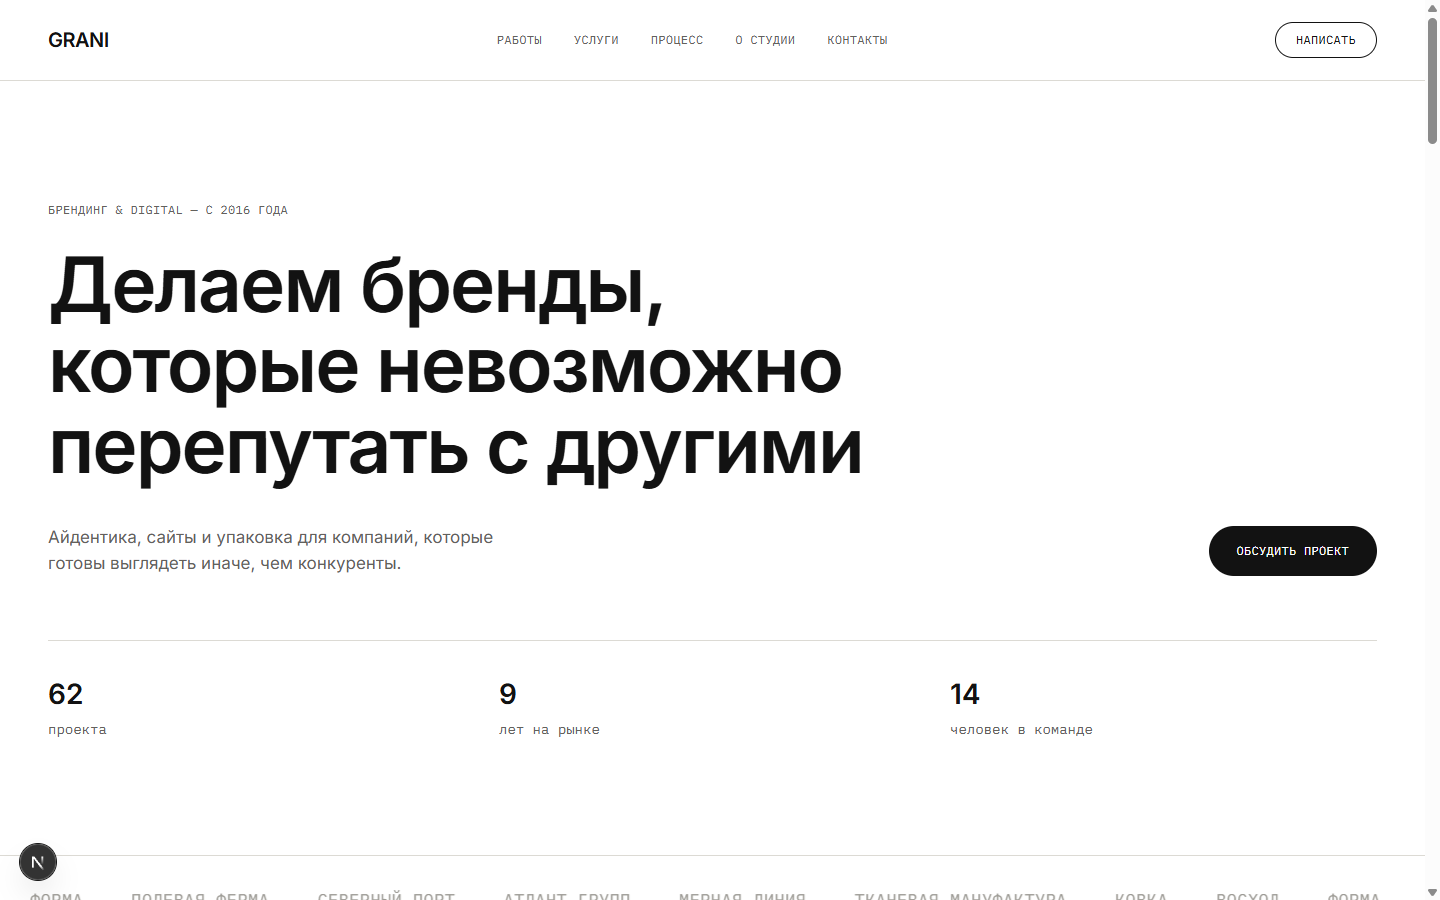
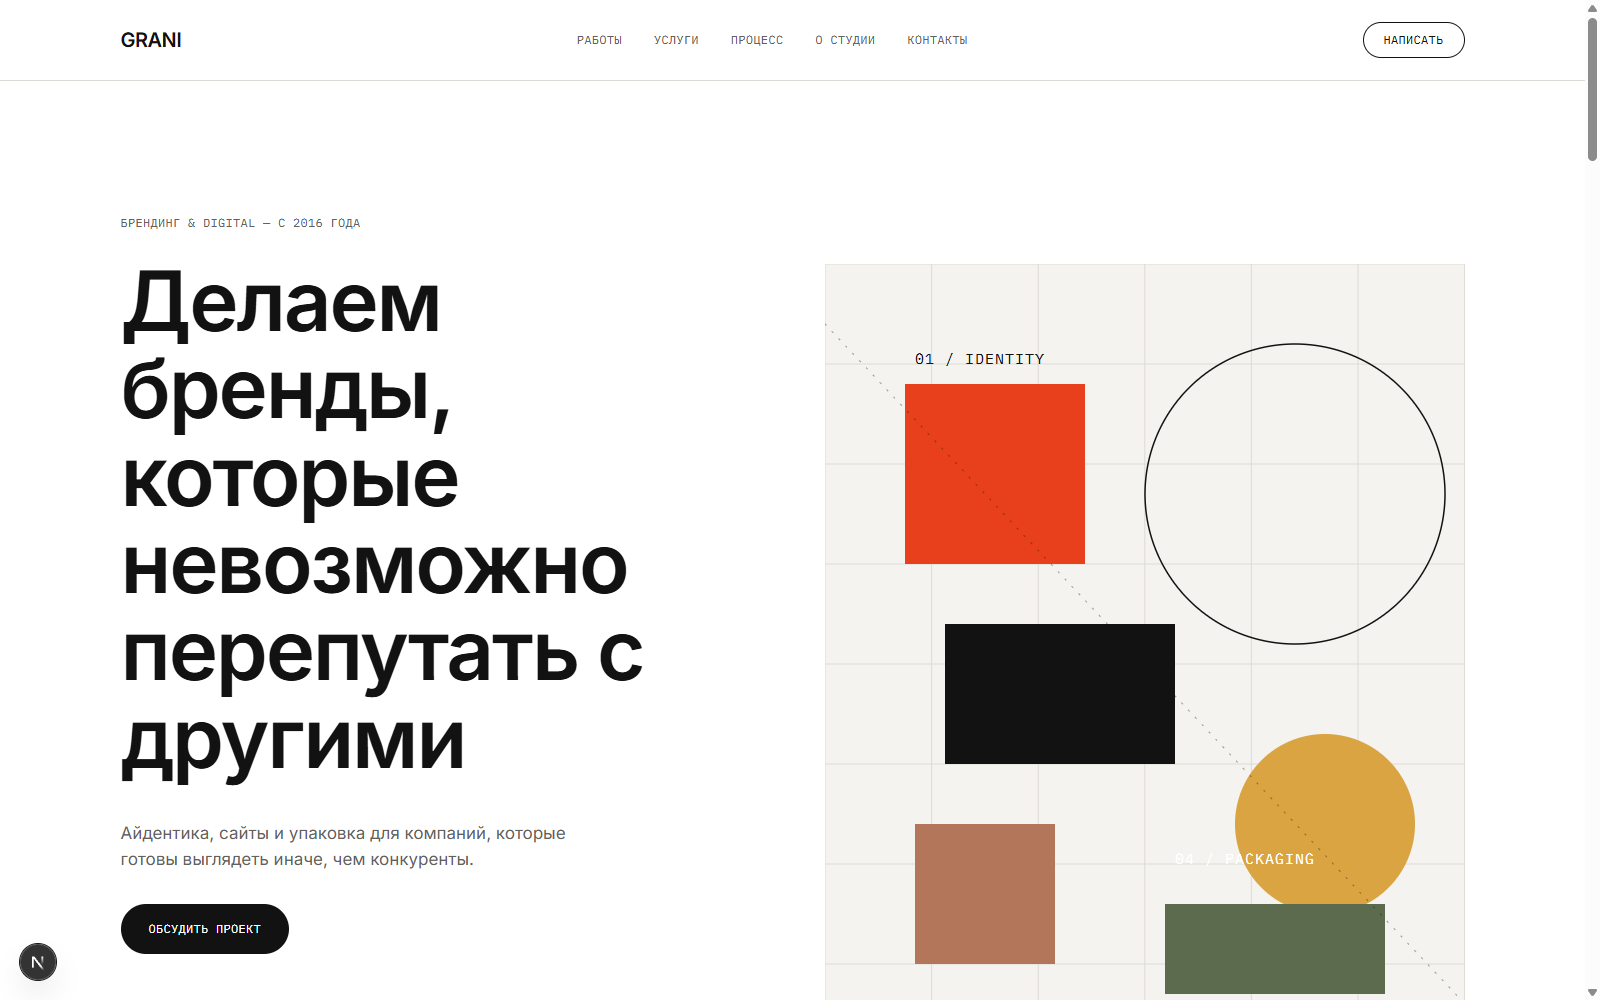
Update case screenshots and trim overlong case descriptions
Claude-Session: https://claude.ai/code/session_012ud42z2FJz5bos5BT3Kq7B

diff --git a/src/content.ts b/src/content.ts
@@ -250,23 +250,6 @@ export type CaseItem = {
 // Чтобы добавить новый кейс — просто добавь объект в этот массив.
 export const cases: CaseItem[] = [
   {
-    tags: ["#лидогенерация", "#редизайн"],
-    title:
-      "Более 80 лидов за первый месяц работы с нового сайта по комплексной эксплуатации газифицированных объектов",
-    text: "Проанализировали конкурентов в нише и выстроили структуру сайта вокруг главной боли клиента — быстрого вызова техника. Понятные тарифы, чёткие УТП и заметная кнопка заявки в каждом блоке подняли конверсию так, что уже в первый месяц сайт принёс больше 80 лидов.",
-    link: "teploserviskazan.ru",
-    linkHref: "https://teploserviskazan.ru",
-    image: "/img/case-1.svg",
-  },
-  {
-    tags: ["#лидогенерация"],
-    title: "Разработали web-сайт, дающий более 50 заявок в месяц",
-    text: "Старый сайт не выдерживал трафик с контекстной рекламы — люди уходили, не оставив заявку. Пересобрали структуру под рекламные посадки: сократили путь до формы, ускорили загрузку и убрали всё, что отвлекает от заявки. Итог — стабильный поток из 50+ заявок в месяц.",
-    link: "",
-    linkHref: "",
-    image: "/img/case-2.svg",
-  },
-  {
     tags: ["#лидогенерация", "#каталог"],
     title: "Лендинг завода бытовок и блок-контейнеров с квизом-калькулятором",
     text: "Не просто сайт-визитка, а инструмент продаж завода. Квиз-калькулятор сам подбирает топ-3 модели под бюджет и задачу клиента, прогревает его ещё до звонка менеджеру и передаёт уже квалифицированный лид с понятными параметрами — это сокращает цикл сделки и разгружает отдел продаж. В хиро-секции — собственный 3D-конфигуратор бытовки на чистом SVG: клиент видит, как собирается его будущий объект, и это работает на доверие к заводу ещё до первого контакта. Все заявки падают в Supabase, а менеджер в один клик выгружает их в Excel с автофильтром и фирменными цветами.",
@@ -284,16 +267,16 @@ export const cases: CaseItem[] = [
   },
   {
     tags: ["#редизайн", "#travel"],
-    title: "Редизайн турброкера экспедиций: от типового лендинга — к дерзкому editorial-стилю, который продаёт авантюру",
-    text: "Старая версия сайта выглядела как ещё один тревел-лендинг — фото гор и форма заявки, ничем не выделяющие бренд среди конкурентов. Пересобрали визуальный язык под аудиторию, которая ищет экстрим, а не путёвку: гигантский конденсированный заголовок, разбитый на два смысловых блока, full-bleed фотографии без рамок и отступов, тёмные editorial-блоки для ключевых сообщений (гарантии, процесс брони) и блок доверия с цифрами (48 экспедиций в год, 2200+ участников, 11 лет в горах) сразу под первым экраном — вместо того чтобы прятать соцдоказательство в футер. Итог — сайт, который с первого экрана считывается как бренд для тех, кто ходит в горы не первый раз, а не безликая турагентская визитка.",
+    title: "Редизайн турброкера экспедиций: от лендинга к editorial-стилю",
+    text: "Старая версия сайта выглядела как ещё один тревел-лендинг — фото гор и форма заявки, ничем не выделяющие бренд среди конкурентов. Пересобрали визуальный язык под аудиторию, которая ищет экстрим, а не путёвку: гигантский конденсированный заголовок, разбитый на два смысловых блока, full-bleed фотографии без рамок и тёмные editorial-блоки для ключевых сообщений — гарантии, процесс брони. Блок доверия с цифрами (48 экспедиций в год, 2200+ участников, 11 лет в горах) вынесли сразу под первый экран, а не спрятали в футер. Итог — сайт, который с первого экрана читается как бренд для тех, кто ходит в горы не первый раз.",
     link: "",
     linkHref: "",
     image: "/img/case-northbound.png",
   },
   {
     tags: ["#лендинг", "#брендинг"],
-    title: "Сайт-портфолио брендинговой студии, который сам квалифицирует лида ещё до звонка",
-    text: "Задача была не «сделать красиво», а закрыть главный вопрос заказчика брендинга — «а вы вообще умеете» — за первые 10 секунд на сайте. Структура выстроена как воронка: обещание в заголовке → цифры доверия (62 проекта, 9 лет на рынке, 14 человек в команде) → разбивка услуг по формату задач клиента (айдентика, digital, арт-дирекшн, упаковка) → портфолио из знаковых кейсов с ссылкой на боль/результат → прозрачный процесс из 4 шагов, снимающий страх «пропадут с деньгами» → отзывы с конкретикой (рост конверсии, гайдлайн, которым реально пользуются) → CTA с оценкой сроков «обсудим за 30 минут». Каждый блок отвечает на следующее возражение в голове клиента, а не просто перечисляет факты о студии.",
+    title: "Сайт-портфолио брендинговой студии для лидов",
+    text: "Задача была не «сделать красиво», а закрыть главный вопрос клиента — «а вы вообще умеете» — за первые 10 секунд на сайте. Структура выстроена как воронка: обещание в заголовке → цифры доверия (62 проекта, 9 лет на рынке) → услуги по формату задач клиента → портфолио из знаковых кейсов → прозрачный процесс из 4 шагов, снимающий страх «пропадут с деньгами» → отзывы с конкретикой → CTA с оценкой сроков «обсудим за 30 минут». Каждый блок отвечает на следующее возражение клиента.",
     link: "",
     linkHref: "",
     image: "/img/case-grani.png",
